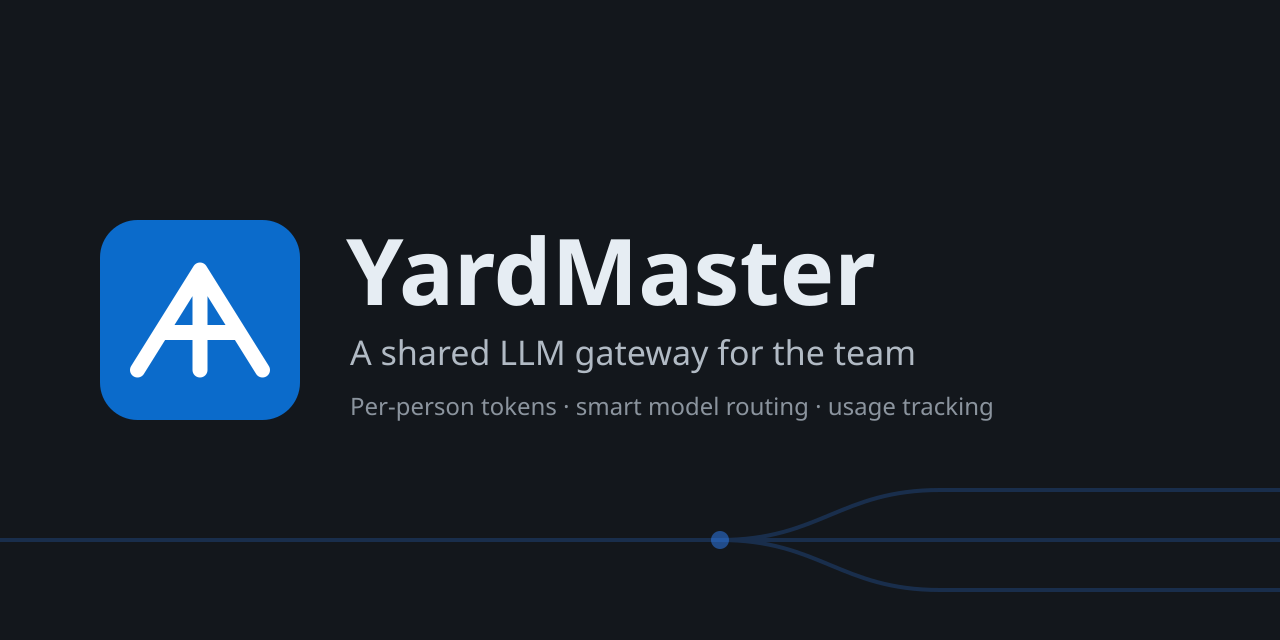
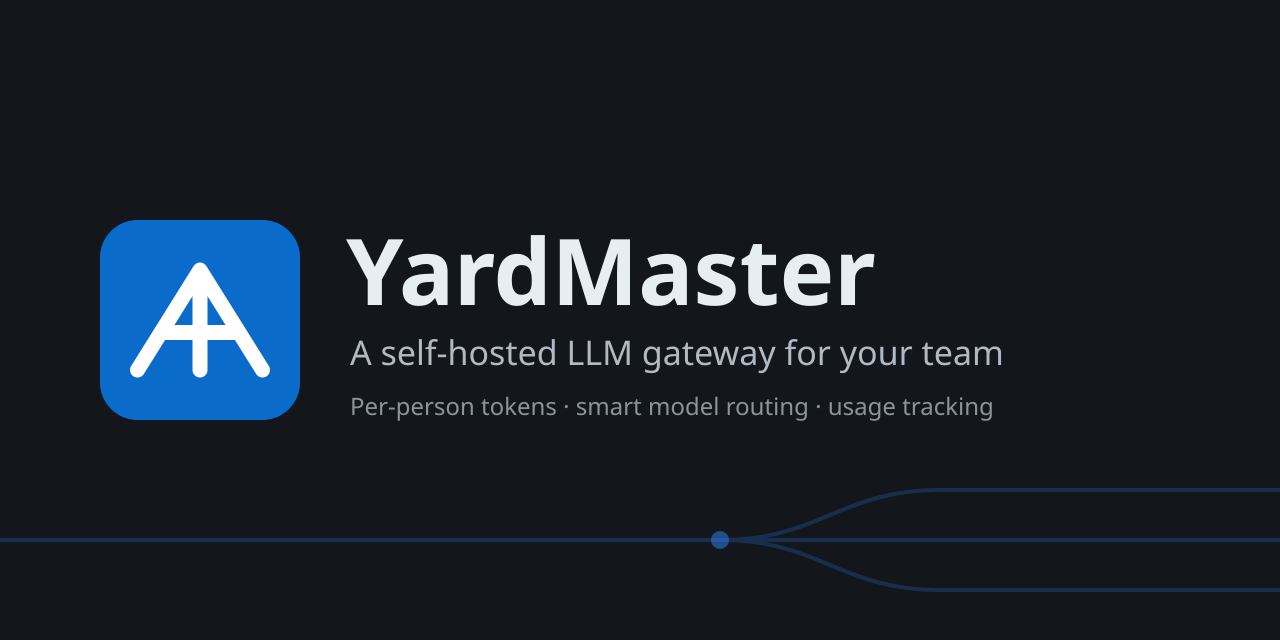
Tagline: "A self-hosted LLM gateway for your team"
"Shared" was redundant with "for the team" and could read as shared hosting.
Self-hosted is what sets YardMaster apart, and matches the repo description.

Changed region(s): [[0.3125, 0.5312, 0.7812, 0.5938]]

diff --git a/README.md b/README.md
@@ -1,4 +1,4 @@
-![YardMaster: a shared LLM gateway for the team](docs/images/social-preview.png)
+![YardMaster: a self-hosted LLM gateway for your team](docs/images/social-preview.png)
 
 [![CI](https://github.com/bricke/YardMaster/actions/workflows/ci.yml/badge.svg)](https://github.com/bricke/YardMaster/actions/workflows/ci.yml)
 [![License: AGPL-3.0](https://img.shields.io/badge/license-AGPL--3.0-blue)](LICENSE)
